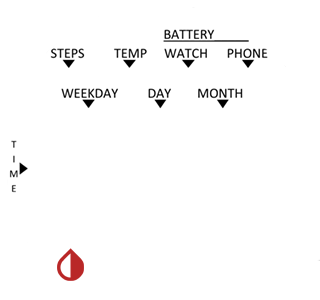
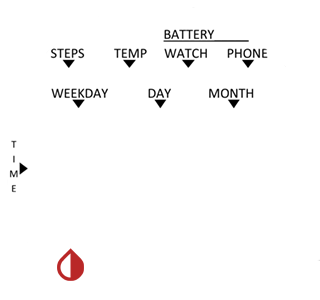
fine tuning

Changed region(s): [[0.5938, 0.27, 0.8125, 0.36], [0.1562, 0.27, 0.375, 0.36]]

diff --git a/app/src/main/java/com/klaus3d3/xDripwatchface/widget/MainClock.java b/app/src/main/java/com/klaus3d3/xDripwatchface/widget/MainClock.java
@@ -99,34 +99,37 @@ public class MainClock extends DigitalClockWidget {
 
     // Languages
     public static String[] codes = {
-            "English", "中文", "Czech", "Français", "Deutsch", "Ελληνικά", "עברית", "Magyar", "Italiano", "日本語", "Polski", "Português", "Русский", "Slovenčina", "Español", "Türkçe",
+            "English", "中文", "Czech", "Nederlands", "Français", "Deutsch", "Ελληνικά", "עברית", "Magyar", "Italiano", "日本語", "한국어", "Polski", "Português", "Русский", "Slovenčina", "Español", "Türkçe",
     };
 
     private static String[][] days = {
             //{"SUNDAY", "MONDAY", "TUESDAY", "WEDNESDAY", "THURSDAY", "FRIDAY", "SATURDAY"},
             {"SUNDAY", "MONDAY", "TUESDAY", "WEDNESDAY", "THURSDAY", "FRIDAY", "SATURDAY"},
             {"星期天", "星期一", "星期二", "星期三", "星期四", "星期五", "星期六"},
-            { "NE", "PO", "ÚT", "ST", "ČT", "PÁ", "SO"},
-            {"DIM", "LUN", "MAR", "MER", "JEU", "VEN", "SAM"},
-            {"SON", "MON", "DIE", "MIT", "DON", "FRE", "SAM"},
-            {"ΚΥΡΙΑΚΗ", "ΔΕΥΤΕΡΑ", "ΤΡΙΤΗ", "ΤΕΤΑΡΤΗ", "ΠΕΜΠΤΗ", "ΠΑΡΑΣΚΕΥΗ", "ΣΑΒΒΑΤΟ"},
+            {"NEDĚLE","PONDĚLÍ", "ÚTERÝ", "STŘEDA", "ČTVRTEK", "PÁTEK", "SOBOTA"},
+            {"ZONDAG", "MAANDAG", "DINSDAG", "WOENSDAG", "DONDERDAG", "VRIJDAG", "ZATERDAG"},
+            {"DIMANCHE", "LUNDI", "MARDI", "MERCREDI", "JEUDI", "VENDREDI", "SAMEDI"},
+            {"SONNTAG", "MONTAG", "DIENSTAG", "MITTWOCH", "DONNERSTAG", "FREITAG", "SAMSTAG"},
+            {"ΚΥΡΙΑΚΉ", "ΔΕΥΤΈΡΑ", "ΤΡΊΤΗ", "ΤΕΤΆΡΤΗ", "ΠΈΜΠΤΗ", "ΠΑΡΑΣΚΕΥΉ", "ΣΆΒΒΑΤΟ"},
             {"ש'","ו'","ה'","ד'","ג'","ב'","א'"},
-            {"VAS", "HÉT", "KED", "SZE", "CSÜ", "PÉN", "SZO"},
-            {"DOM", "LUN", "MAR", "MER", "GIO", "VEN", "SAB"},
+            {"VASÁRNAP", "HÉTFŐ", "KEDD", "SZERDA", "CSÜTÖRTÖK", "PÉNTEK", "SZOMBATON"},
+            {"DOMENICA", "LUNEDÌ", "MARTEDÌ", "MERCOLEDÌ", "GIOVEDÌ", "VENERDÌ", "SABATO"},
             {"日曜日", "月曜日", "火曜日", "水曜日", "木曜日", "金曜日", "土曜日"},
-            {"NIE", "PON", "WTO", "ŚRO", "CZW", "PIĄ", "SOB"},
-            {"DOM", "SEG", "TER", "QUA", "QUI", "SEX", "SÁB"},
-            {"ВОС", "ПОН", "ВТО", "СРЕ", "ЧЕТ", "ПЯТ", "СУБ"},
-            {"NED", "PON", "UTO", "STR", "ŠTV", "PIA", "SOB"},
-            {"DOM", "LUN", "MAR", "MIÉ", "JUE", "VIE", "SÁB"},
-            {"PAZAR", "PAZARTESI", "SALI", "ÇARŞAMBA", "PERŞEMBE", "CUMA", "CUMARTESI"},
+            {"일요일", "월요일", "화요일", "수요일", "목요일", "금요일", "토요일"},
+            {"NIEDZIELA", "PONIEDZIAŁEK", "WTOREK", "ŚRODA", "CZWARTEK", "PIĄTEK", "SOBOTA"},
+            {"DOMINGO", "SEGUNDA", "TERÇA", "QUARTA", "QUINTA", "SEXTA", "SÁBADO"},
+            {"ВОСКРЕСЕНЬЕ", "ПОНЕДЕЛЬНИК", "ВТОРНИК", "СРЕДА", "ЧЕТВЕРГ", "ПЯТНИЦА", "СУББОТА"},
+            {"NEDEĽA", "PONDELOK", "UTOROK", "STREDA", "ŠTVRTOK", "PIATOK", "SOBOTA"},
+            {"DOMINGO", "LUNES", "MARTES", "MIÉRCOLES", "JUEVES", "VIERNES", "SÁBADO"},
+            {"PAZAR", "PAZARTESI", "SALı", "ÇARŞAMBA", "PERŞEMBE", "CUMA", "CUMARTESI"},
     };
 
     private static String[][] days_3let = {
             //{"SUNDAY", "MONDAY", "TUESDAY", "WEDNESDAY", "THURSDAY", "FRIDAY", "SATURDAY"},
             {"SUN", "MON", "TUE", "WED", "THU", "FRI", "SAT"},
             {"星期天", "星期一", "星期二", "星期三", "星期四", "星期五", "星期六"},
-            { "NE", "PO", "ÚT", "ST", "ČT", "PÁ", "SO"},
+            {"NE", "PO", "ÚT", "ST", "ČT", "PÁ", "SO"},
+            {"ZON", "MAA", "DIN", "WOE", "DON", "VRI", "ZAT"},
             {"DIM", "LUN", "MAR", "MER", "JEU", "VEN", "SAM"},
             {"SON", "MON", "DIE", "MIT", "DON", "FRE", "SAM"},
             {"ΚΥΡ", "ΔΕΥ", "ΤΡΙ", "ΤΕΤ", "ΠΕΜ", "ΠΑΡ", "ΣΑΒ"},
@@ -134,6 +137,7 @@ public class MainClock extends DigitalClockWidget {
             {"VAS", "HÉT", "KED", "SZE", "CSÜ", "PÉN", "SZO"},
             {"DOM", "LUN", "MAR", "MER", "GIO", "VEN", "SAB"},
             {"日曜日", "月曜日", "火曜日", "水曜日", "木曜日", "金曜日", "土曜日"},
+            {"일요일", "월요일", "화요일", "수요일", "목요일", "금요일", "토요일"},
             {"NIE", "PON", "WTO", "ŚRO", "CZW", "PIĄ", "SOB"},
             {"DOM", "SEG", "TER", "QUA", "QUI", "SEX", "SÁB"},
             {"ВОС", "ПОН", "ВТО", "СРЕ", "ЧЕТ", "ПЯТ", "СУБ"},
@@ -144,29 +148,32 @@ public class MainClock extends DigitalClockWidget {
 
     private static String[][] months = {
             //{"DECEMBER", "JANUARY", "FEBRUARY", "MARCH", "APRIL", "MAY", "JUNE", "JULY", "AUGUST", "SEPTEMBER", "OCTOBER", "NOVEMBER", "DECEMBER"},
-            {"DECEMBER", "JANUARY", "FEBRUARY", "MARCH", "APRIL", "MAY", "JUNE", "JULY", "AUGUST", "SEPTEMBER", "OCTOBER", "NOVEMBER"},
-            {"十二月", "一月", "二月", "三月", "四月", "五月", "六月", "七月", "八月", "九月", "十月", "十一月"},
-            {"PRO", "LED", "ÚNO", "BŘE", "DUB", "KVĚ", "ČER", "ČER", "SRP", "ZÁŘ", "ŘÍJ", "LIS"},
-            {"DÉC", "JAN", "FÉV", "MAR", "AVR", "MAI", "JUI", "JUI", "AOÛ", "SEP", "OCT", "NOV"},
-            {"DEZ", "JAN", "FEB", "MÄR", "APR", "MAI", "JUN", "JUL", "AUG", "SEP", "OKT", "NOV"},
-            {"ΔΕΚΕΜΒΡΙΟΣ", "ΙΑΝΟΥΑΡΙΟΣ", "ΦΕΒΡΟΥΑΡΙΟΣ", "ΜΑΡΤΙΟΣ", "ΑΠΡΙΛΙΟΣ", "ΜΑΙΟΣ", "ΙΟΥΝΙΟΣ", "ΙΟΥΛΙΟΣ", "ΑΥΓΟΥΣΤΟΣ", "ΣΕΠΤΕΜΒΡΙΟΣ", "ΟΚΤΩΒΡΙΟΣ", "ΝΟΕΜΒΡΙΟΣ"},
-            {"דצמ", "ינו", "פבר", "מרץ", "אפר", "מאי", "יונ", "יול", "אוג", "ספט", "אוק", "נוב"},
-            {"DEC", "JAN", "FEB", "MÁR", "ÁPR", "MÁJ", "JÚN", "JÚL", "AUG", "SZE", "OKT", "NOV"},
-            {"DIC", "GEN", "FEB", "MAR", "APR", "MAG", "GIU", "LUG", "AGO", "SET", "OTT", "NOV"},
-            {"12月", "1月", "2月", "3月", "4月", "5月", "6月", "7月", "8月", "9月", "10月", "11月"},
-            {"GRU", "STY", "LUT", "MAR", "KWI", "MAJ", "CZE", "LIP", "SIE", "WRZ", "PAŹ", "LIS"},
-            {"DEZ", "JAN", "FEV", "MAR", "ABR", "MAI", "JUN", "JUL", "AGO", "SET", "OUT", "NOV"},
-            {"ДЕК", "ЯНВ", "ФЕВ", "МАР", "АПР", "МАЙ", "ИЮН", "ИЮЛ", "АВГ", "СЕН", "ОКТ", "НОЯ"},
-            {"DEC", "JAN", "FEB", "MAR", "APR", "MÁJ", "JÚN", "JÚL", "AUG", "SEP", "OKT", "NOV"},
-            {"DIC", "ENE", "FEB", "MAR", "ABR", "MAY", "JUN", "JUL", "AGO", "SEP", "OCT", "NOV"},
-            {"ARALIK", "OCAK", "ŞUBAT", "MART", "NISAN", "MAYIS", "HAZIRAN", "TEMMUZ", "AĞUSTOS", "EYLÜL", "EKIM", "KASIM"},
+            {"DECEMBER", "JANUARY", "FEBRUARY", "MARCH", "APRIL", "MAY", "JUNE", "JULY", "AUGUST", "SEPTEMBER", "OCTOBER", "NOVEMBER", "DECEMBER"},
+            {"十二月", "一月", "二月", "三月", "四月", "五月", "六月", "七月", "八月", "九月", "十月", "十一月", "十二月"},
+            {"PROSINEC", "LEDEN", "ÚNOR", "BŘEZEN", "DUBEN", "KVĚTEN", "ČERVEN", "ČERVENEC", "SRPEN", "ZÁŘÍ", "ŘÍJEN", "LISTOPAD", "PROSINEC"},
+            {"DECEMBER", "JANUARI", "FEBRUARI", "MAART", "APRIL", "MEI", "JUNI", "JULI", "AUGUSTUS", "SEPTEMBER", "OKTOBER", "NOVEMBER", "DECEMBER"},
+            {"DÉCEMBRE", "JANVIER", "FÉVRIER", "MARS", "AVRIL", "MAI", "JUIN", "JUILLET", "AOÛT", "SEPTEMBRE", "OCTOBRE", "NOVEMBRE", "DÉCEMBRE"},
+            {"DEZEMBER", "JANUAR", "FEBRUAR", "MÄRZ", "APRIL", "MAI", "JUNI", "JULI", "AUGUST", "SEPTEMBER", "OKTOBER", "NOVEMBER", "DEZEMBER"},
+            {"ΔΕΚΈΜΒΡΙΟΣ", "ΙΑΝΟΥΆΡΙΟΣ", "ΦΕΒΡΟΥΆΡΙΟΣ", "ΜΆΡΤΙΟΣ", "ΑΠΡΊΛΙΟΣ", "ΜΆΙΟΣ", "ΙΟΎΝΙΟΣ", "ΙΟΎΛΙΟΣ", "ΑΎΓΟΥΣΤΟΣ", "ΣΕΠΤΈΜΒΡΙΟΣ", "ΟΚΤΏΒΡΙΟΣ", "ΝΟΈΜΒΡΙΟΣ", "ΔΕΚΈΜΒΡΙΟΣ"},
+            {"דצמבר", "ינואר", "פברואר", "מרץ", "אפריל", "מאי", "יוני", "יולי", "אוגוסט", "ספטמבר", "אוקטובר", "נובמבר", "דצמבר"},
+            {"DECEMBER", "JANUÁR", "FEBRUÁR", "MÁRCIUS", "ÁPRILIS", "MÁJUS", "JÚNIUS", "JÚLIUS", "AUGUSZTUS", "SZEPTEMBER", "OKTÓBER", "NOVEMBER", "DECEMBER"},
+            {"DICEMBRE", "GENNAIO", "FEBBRAIO", "MARZO", "APRILE", "MAGGIO", "GIUGNO", "LUGLIO", "AGOSTO", "SETTEMBRE", "OTTOBRE", "NOVEMBRE", "DICEMBRE"},
+            {"12月", "1月", "2月", "3月", "4月", "5月", "6月", "7月", "8月", "9月", "10月", "11月", "12月"},
+            {"12월", "1월", "2월", "3월", "4월", "5월", "6월", "7월", "8월", "9월", "10월", "11월", "12월"},
+            {"GRUDZIEŃ", "STYCZEŃ", "LUTY", "MARZEC", "KWIECIEŃ", "MAJ", "CZERWIEC", "LIPIEC", "SIERPIEŃ", "WRZESIEŃ", "PAŹDZIERNIK", "LISTOPAD", "GRUDZIEŃ"},
+            {"DEZEMBRO", "JANEIRO", "FEVEREIRO", "MARÇO", "ABRIL", "MAIO", "JUNHO", "JULHO", "AGOSTO", "SETEMBRO", "OUTUBRO", "NOVEMBRO", "DEZEMBRO"},
+            {"ДЕКАБРЬ", "ЯНВАРЬ", "ФЕВРАЛЬ", "МАРТ", "АПРЕЛЬ", "МАЙ", "ИЮНЬ", "ИЮЛЬ", "АВГУСТ", "СЕНТЯБРЬ", "ОКТЯБРЬ", "НОЯБРЬ", "ДЕКАБРЬ"},
+            {"DECEMBER", "JANUÁR", "FEBRUÁR", "MAREC", "APRÍL", "MÁJ", "JÚN", "JÚL", "AUGUST", "SEPTEMBER", "OKTÓBER", "NOVEMBER", "DECEMBER"},
+            {"DICIEMBRE", "ENERO", "FEBRERO", "MARZO", "ABRIL", "MAYO", "JUNIO", "JULIO", "AGOSTO", "SEPTIEMBRE", "OCTUBRE", "NOVIEMBRE", "DICIEMBRE"},
+            {"ARALıK", "OCAK", "ŞUBAT", "MART", "NISAN", "MAYıS", "HAZIRAN", "TEMMUZ", "AĞUSTOS", "EYLÜL", "EKIM", "KASıM", "ARALıK"},
     };
 
     private static String[][] months_3let = {
             //{"DECEMBER", "JANUARY", "FEBRUARY", "MARCH", "APRIL", "MAY", "JUNE", "JULY", "AUGUST", "SEPTEMBER", "OCTOBER", "NOVEMBER", "DECEMBER"},
             {"DEC", "JAN", "FEB", "MAR", "APR", "MAY", "JUN", "JUL", "AUG", "SEP", "OCT", "NOV"},
-            {"十二月", "一月", "二月", "三月", "四月", "五月", "六月", "七月", "八月", "九月", "十月", "十一月"},
+            {"十二月", "一月", "二月", "三月", "四月", "五月", "六月", "七月", "八月", "九月", "十月"},
             {"PRO", "LED", "ÚNO", "BŘE", "DUB", "KVĚ", "ČER", "ČER", "SRP", "ZÁŘ", "ŘÍJ", "LIS"},
+            {"DEC", "JAN", "FEB", "MAA", "APR", "MEI", "JUN", "JUL", "AUG", "SEP", "OKT", "NOV"},
             {"DÉC", "JAN", "FÉV", "MAR", "AVR", "MAI", "JUI", "JUI", "AOÛ", "SEP", "OCT", "NOV"},
             {"DEZ", "JAN", "FEB", "MÄR", "APR", "MAI", "JUN", "JUL", "AUG", "SEP", "OKT", "NOV"},
             {"ΔΕΚ", "ΙΑΝ", "ΦΕΒ", "ΜΑΡ", "ΑΠΡ", "ΜΑΙ", "ΙΟΥΝ", "ΙΟΥΛ", "ΑΥΓ", "ΣΕΠ", "ΟΚΤ", "ΝΟΕ"},
@@ -174,6 +181,7 @@ public class MainClock extends DigitalClockWidget {
             {"DEC", "JAN", "FEB", "MÁR", "ÁPR", "MÁJ", "JÚN", "JÚL", "AUG", "SZE", "OKT", "NOV"},
             {"DIC", "GEN", "FEB", "MAR", "APR", "MAG", "GIU", "LUG", "AGO", "SET", "OTT", "NOV"},
             {"12月", "1月", "2月", "3月", "4月", "5月", "6月", "7月", "8月", "9月", "10月", "11月"},
+            {"12월", "1월", "2월", "3월", "4월", "5월", "6월", "7월", "8월", "9월", "10월", "11월"},
             {"GRU", "STY", "LUT", "MAR", "KWI", "MAJ", "CZE", "LIP", "SIE", "WRZ", "PAŹ", "LIS"},
             {"DEZ", "JAN", "FEV", "MAR", "ABR", "MAI", "JUN", "JUL", "AGO", "SET", "OUT", "NOV"},
             {"ДЕК", "ЯНВ", "ФЕВ", "МАР", "АПР", "МАЙ", "ИЮН", "ИЮЛ", "АВГ", "СЕН", "ОКТ", "НОЯ"},

diff --git a/app/src/main/java/com/klaus3d3/xDripwatchface/settings/Settings.java b/app/src/main/java/com/klaus3d3/xDripwatchface/settings/Settings.java
@@ -14,13 +14,12 @@ import com.klaus3d3.xDripwatchface.R;
 
 public class Settings extends FragmentActivity {
 
-    public static String[] color = {"#ff0000", "#00ffff","#00ff00","#ff00ff","#ffffff","#ffff00"};
-    public int currentColor = 3;
+
     public int currentLanguage = 0;
     private com.klaus3d3.xDripwatchface.settings.APsettings settings;
     // Languages
     public static String[] codes = {
-            "English", "中文", "Czech", "Français", "Deutsch", "Ελληνικά", "עברית", "Magyar", "Italiano", "日本語", "Polski", "Português", "Русский", "Slovenčina", "Español"//, "Türkçe",
+            "English", "中文", "Czech", "Nederlands", "Français", "Deutsch", "Ελληνικά", "עברית", "Magyar", "Italiano", "日本語", "한국어", "Polski", "Português", "Русский", "Slovenčina", "Español", "Türkçe",
     };
 
     @Override
@@ -51,45 +50,9 @@ public class Settings extends FragmentActivity {
             }
         });
 
-        // Change Color Buttons
-        View.OnClickListener onColorChange = new View.OnClickListener() {
-            @Override
-            public void onClick(View v) {
-                Settings.this.onColorChangeBtn(v);
-            }
-        };
-        this.findViewById(R.id.color1).setOnClickListener(onColorChange);
-        this.findViewById(R.id.color2).setOnClickListener(onColorChange);
-        this.findViewById(R.id.color3).setOnClickListener(onColorChange);
-        this.findViewById(R.id.color4).setOnClickListener(onColorChange);
-        this.findViewById(R.id.color5).setOnClickListener(onColorChange);
-        this.findViewById(R.id.color6).setOnClickListener(onColorChange);
 
-        this.currentColor = this.settings.getInt("color",this.currentColor);
-        //"#ff0000", "#00ffff","#00ff00","#ff00ff","#ffffff","#ffff00"
-        switch (color[this.currentColor]) {
-            case "#ff0000":
-                this.findViewById(R.id.close_settings).setBackgroundResource(R.drawable.color1);
-                break;
-            case "#00ffff":
-                this.findViewById(R.id.close_settings).setBackgroundResource(R.drawable.color2);
-                break;
-            case "#00ff00":
-                this.findViewById(R.id.close_settings).setBackgroundResource(R.drawable.color3);
-                break;
-            case "#ff00ff":
-                this.findViewById(R.id.close_settings).setBackgroundResource(R.drawable.color4);
-                break;
-            case "#ffffff":
-                this.findViewById(R.id.close_settings).setBackgroundResource(R.drawable.color5);
-                break;
-            case "#ffff00":
-                this.findViewById(R.id.close_settings).setBackgroundResource(R.drawable.color6);
-                break;
-            default:
-                this.findViewById(R.id.close_settings).setBackgroundResource(R.drawable.color4);
-                break;
-        }
+
+
 
         // Language button
         TextView language_button = (TextView) findViewById(R.id.language);
@@ -104,37 +67,7 @@ public class Settings extends FragmentActivity {
         ((TextView) this.findViewById(R.id.language)).setText(this.codes[this.currentLanguage]);
     }
 
-    private void onColorChangeBtn(View v) {
-        // Find caller and change to the appropriate color
-        switch (v.getId()) {
-            case R.id.color1:
-                this.currentColor = 0;
-                this.findViewById(R.id.close_settings).setBackgroundResource(R.drawable.color1);
-                break;
-            case R.id.color2:
-                this.currentColor = 1;
-                this.findViewById(R.id.close_settings).setBackgroundResource(R.drawable.color2);
-                break;
-            case R.id.color3:
-                this.currentColor = 2;
-                this.findViewById(R.id.close_settings).setBackgroundResource(R.drawable.color3);
-                break;
-            case R.id.color4:
-                this.currentColor = 3;
-                this.findViewById(R.id.close_settings).setBackgroundResource(R.drawable.color4);
-                break;
-            case R.id.color5:
-                this.currentColor = 4;
-                this.findViewById(R.id.close_settings).setBackgroundResource(R.drawable.color5);
-                break;
-            case R.id.color6:
-                this.currentColor = 5;
-                this.findViewById(R.id.close_settings).setBackgroundResource(R.drawable.color6);
-                break;
-        }
-        this.settings.setInt("color",this.currentColor);
-        //Toast.makeText(v.getContext(), "Color: "+this.currentColor, Toast.LENGTH_SHORT).show();
-    }
+
 
     // Change to the next language
     private void rotateLanguage(View v) {

diff --git a/app/src/main/java/com/klaus3d3/xDripwatchface/widget/CirclesWidget.java b/app/src/main/java/com/klaus3d3/xDripwatchface/widget/CirclesWidget.java
@@ -148,13 +148,13 @@ public class CirclesWidget extends AbstractWidget {
 
         // Widgets text colors
         this.batteryPaint = new Paint(Paint.ANTI_ALIAS_FLAG);
-        this.batteryPaint.setTypeface(ResourceManager.getTypeFace(service.getResources(), ResourceManager.Font.MULTI_SPACE));
+        this.batteryPaint.setTypeface(ResourceManager.getTypeFace(service.getResources(), ResourceManager.Font.MONO_SPACE));
         this.batteryPaint.setTextSize(service.getResources().getDimension(R.dimen.steps_font_size));
         this.batteryPaint.setColor(service.getResources().getColor(R.color.battery_colour));
         this.batteryPaint.setTextAlign( (this.batteryAlignLeftBool) ? Paint.Align.LEFT : Paint.Align.CENTER );
 
         this.stepsPaint = new Paint(Paint.ANTI_ALIAS_FLAG);
-        this.stepsPaint.setTypeface(ResourceManager.getTypeFace(service.getResources(), ResourceManager.Font.MULTI_SPACE));
+        this.stepsPaint.setTypeface(ResourceManager.getTypeFace(service.getResources(), ResourceManager.Font.MONO_SPACE));
         this.stepsPaint.setTextSize(service.getResources().getDimension(R.dimen.steps_font_size));
         this.stepsPaint.setColor(service.getResources().getColor(R.color.steps_colour));
         this.stepsPaint.setTextAlign( (this.stepsAlignLeftBool) ? Paint.Align.LEFT : Paint.Align.CENTER );
@@ -184,9 +184,7 @@ public class CirclesWidget extends AbstractWidget {
         // Show units boolean
         this.showUnits = service.getResources().getBoolean(R.bool.distance_units);
 
-        // Over circles layout
-        this.background = service.getResources().getDrawable(R.drawable.over_circles_layout);
-        this.background.setBounds(0, 0, 320, 300);
+
 
         // Fix angles
         if(this.batteryCircleBool){
@@ -261,8 +259,7 @@ public class CirclesWidget extends AbstractWidget {
         }
         canvas.restoreToCount(count);
 
-        // Over circles layout
-        this.background.draw(canvas);
+
 
         // Show battery
         if (this.batteryData != null && this.batteryBool) {
@@ -378,7 +375,7 @@ public class CirclesWidget extends AbstractWidget {
         int tmp_left;
 
         // It's a bird, it's a plane... nope... it's a font.
-        Typeface timeTypeFace = ResourceManager.getTypeFace(service.getResources(), ResourceManager.Font.MULTI_SPACE);
+        Typeface timeTypeFace = ResourceManager.getTypeFace(service.getResources(), ResourceManager.Font.MONO_SPACE);
 
         // Show battery
         SlptLinearLayout power = new SlptLinearLayout();

diff --git a/app/src/main/java/com/klaus3d3/xDripwatchface/widget/WeatherWidget.java b/app/src/main/java/com/klaus3d3/xDripwatchface/widget/WeatherWidget.java
@@ -85,7 +85,7 @@ public class WeatherWidget extends AbstractWidget {
         if(this.temperatureBool) {
             this.textPaint = new TextPaint(TextPaint.ANTI_ALIAS_FLAG);
             this.textPaint.setColor(service.getResources().getColor(R.color.temperature_colour));
-            this.textPaint.setTypeface(ResourceManager.getTypeFace(service.getResources(), ResourceManager.Font.MULTI_SPACE));
+            this.textPaint.setTypeface(ResourceManager.getTypeFace(service.getResources(), ResourceManager.Font.MONO_SPACE));
             this.textPaint.setTextSize(service.getResources().getDimension(R.dimen.temperature_font_size));
             this.textPaint.setTextAlign((this.temperatureAlignLeftBool) ? Paint.Align.LEFT : Paint.Align.CENTER);
         }
@@ -312,7 +312,7 @@ public class WeatherWidget extends AbstractWidget {
     public List<SlptViewComponent> buildSlptViewComponent(Service service) {
         // Variables
         this.mService = service;
-        Typeface font = ResourceManager.getTypeFace(service.getResources(), ResourceManager.Font.MULTI_SPACE);
+        Typeface font = ResourceManager.getTypeFace(service.getResources(), ResourceManager.Font.MONO_SPACE);
 
         // Get weather data
         this.weather = getSlptWeather();
@@ -393,8 +393,8 @@ public class WeatherWidget extends AbstractWidget {
         SlptPictureView weatherLayout = new SlptPictureView();
         weatherLayout.setImagePicture( SimpleFile.readFileFromAssets(service, String.format("slpt_weather/clock_skin_weather_%s.png", weatherImageStrList.get(this.weather.weatherType))) );
         weatherLayout.setStart(
-                (int) service.getResources().getDimension(R.dimen.weather_img_left),
-                (int) service.getResources().getDimension(R.dimen.weather_img_top)
+                (int) service.getResources().getDimension(R.dimen.weather_img_left)-5,
+                (int) service.getResources().getDimension(R.dimen.weather_img_top)-4
         );
         if(!service.getResources().getBoolean(R.bool.weather_image)){weatherLayout.show=false;}
 

diff --git a/app/src/main/java/com/klaus3d3/xDripwatchface/CustomDataUpdater.java b/app/src/main/java/com/klaus3d3/xDripwatchface/CustomDataUpdater.java
@@ -132,9 +132,8 @@ public class CustomDataUpdater extends Service {
                     hd.putInt("heart_rate",HRToSend);
                     hd.putInt("heart_acuracy",1);
                     companionTransporter.send("Amazfit_Healthdata",hd);
-                    Log.d("CustomDataUpdater",watchface_graph);
 
-                }
+                                    }
                 if (action.equals(Constants.ACTION_XDRIP_OTHERALERT))
                 {
                     Intent intent = new Intent(context, xDripOtheralertActivity.class);
